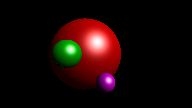
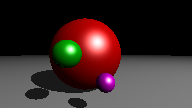
drugačen testni primer

diff --git a/tracer.py b/tracer.py
@@ -163,8 +163,9 @@ source_pos = tuple(lines[3].split('=')[-1].strip('()\n ').split(','))
 krogla1 = Sphere(0.7, Vector(-0.2, 0, -1), np.array([0.1, 0, 0]), np.array([0.7, 0, 0]), np.array([1,1,1]), 100, 0.5)
 krogla2 = Sphere(0.1, Vector(0.1, -0.3, 0), np.array([0.1, 0, 0.1]), np.array([0.7, 0, 0.7]), np.array([1,1,1]), 100, 0.5)
 krogla3 = Sphere(0.15, Vector(-0.3, 0, 0), np.array([0, 0.1, 0]), np.array([0, 0.6, 0]), np.array([1,1,1]), 100, 0.5)
+ravnina = Sphere(9000-0.7, Vector(0, -9000, 0), np.array([0.1, 0.1, 0.1]), np.array([0.6, 0.6, 0.6]), np.array([1,1,1]), 100, 0.5)
 
-spheres = [krogla1, krogla2, krogla3]
+spheres = [krogla1, krogla2, krogla3, ravnina]
 
 #definirana kamera in zaslon
 
@@ -217,13 +218,13 @@ for i, y in enumerate(np.linspace(screen[3], screen[2], height)):
             else:
                 RGB = blinnphong(light, current_ray, spheres[intersection_object])
 
-
+            #odsev ostalih teles
 
 
 
         image[i,j] = np.clip(RGB, 0, 1)
 
-        print("progress: %d/%d" % (((i+1)*width+j+1)/(height*width)*100, 100))
+        print("preračunavam: {}%".format((i*width+j+1)/(height*width)*100))
 
 plt.imsave('image.png', image)
 
